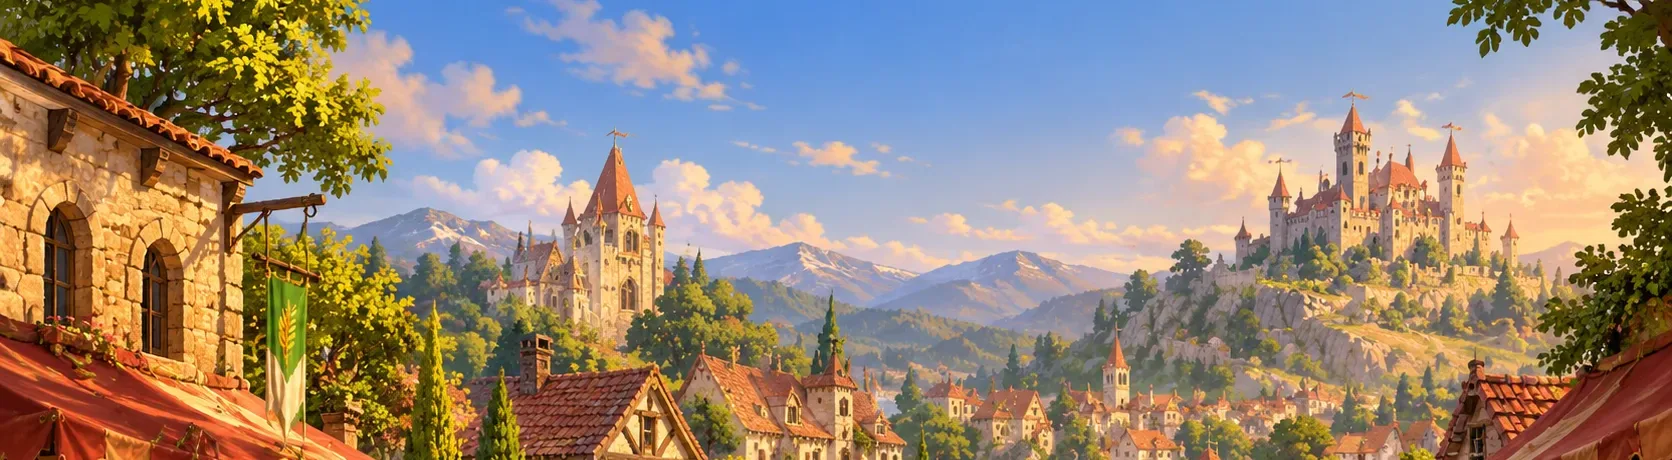
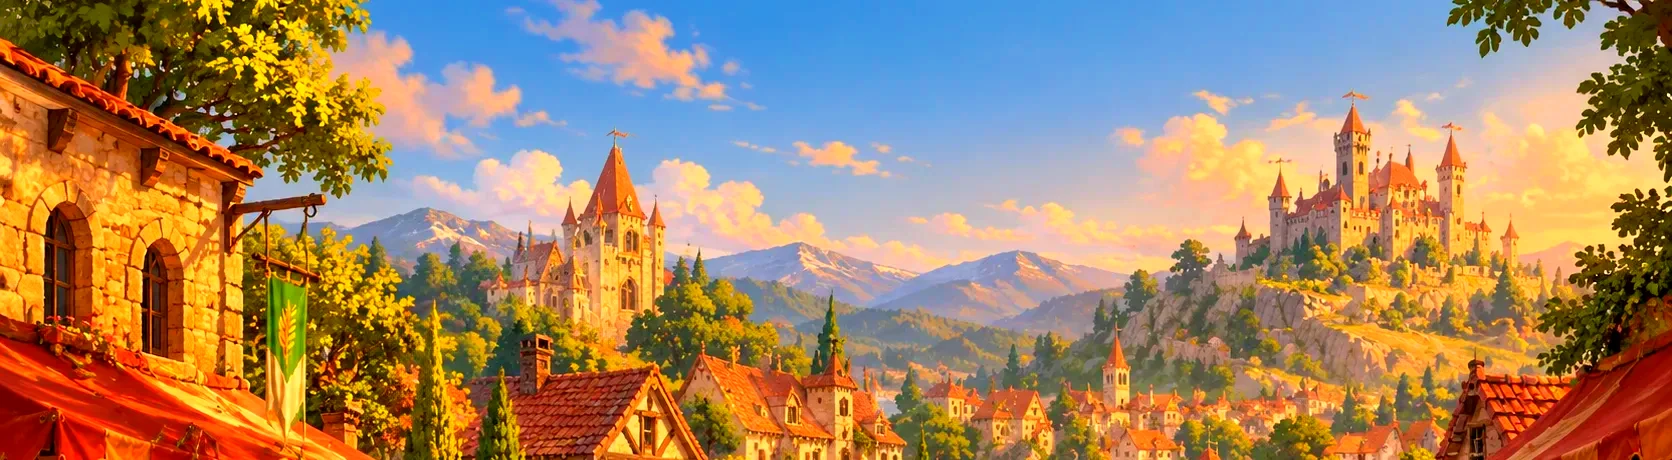
Richer tones: warm graded header scene, darker wood, tinted card tops
Header scene is re-graded (more saturation, warm golden-hour shift, a
touch of contrast), the app-wide wood scrim goes from 0.4 to 0.5 for more
contrast against the parchment panels, and every market card's top now
carries its good's color (stronger when selected).

Claude-Session: https://claude.ai/code/session_01TFmxMUJ6DHymmmzuLnGYtL

diff --git a/town-economy/src/components/GoodCard.tsx b/town-economy/src/components/GoodCard.tsx
@@ -97,12 +97,13 @@ export function GoodCard({ good, state, selected, onPress, badge, width = BASE_W
             usual dark card, same as before. */}
         <View style={[styles.topZone, { padding: cardPadding }]}>
           <GradientFill colors={CARD_GRADIENT} x1="0" y1="0" x2="1" y2="1" />
-          {selected && (
-            <View
-              pointerEvents="none"
-              style={[StyleSheet.absoluteFill, { backgroundColor: withAlpha(good.color, 0.24) }]}
-            />
-          )}
+          <View
+            pointerEvents="none"
+            style={[
+              StyleSheet.absoluteFill,
+              { backgroundColor: withAlpha(good.color, selected ? 0.36 : 0.16) },
+            ]}
+          />
           <Animated.View
             pointerEvents="none"
             style={[StyleSheet.absoluteFill, { backgroundColor: flashColor, opacity }]}

diff --git a/town-economy/App.tsx b/town-economy/App.tsx
@@ -384,7 +384,7 @@ function Game() {
           background's own already-dark brown, it read as muddy rather
           than moody. */}
       <GradientFill
-        colors={seasonalBackgroundGradient().map((c) => withAlpha(c, 0.4)) as [string, string]}
+        colors={seasonalBackgroundGradient().map((c) => withAlpha(c, 0.5)) as [string, string]}
         x1="0"
         y1="0"
         x2="0"
